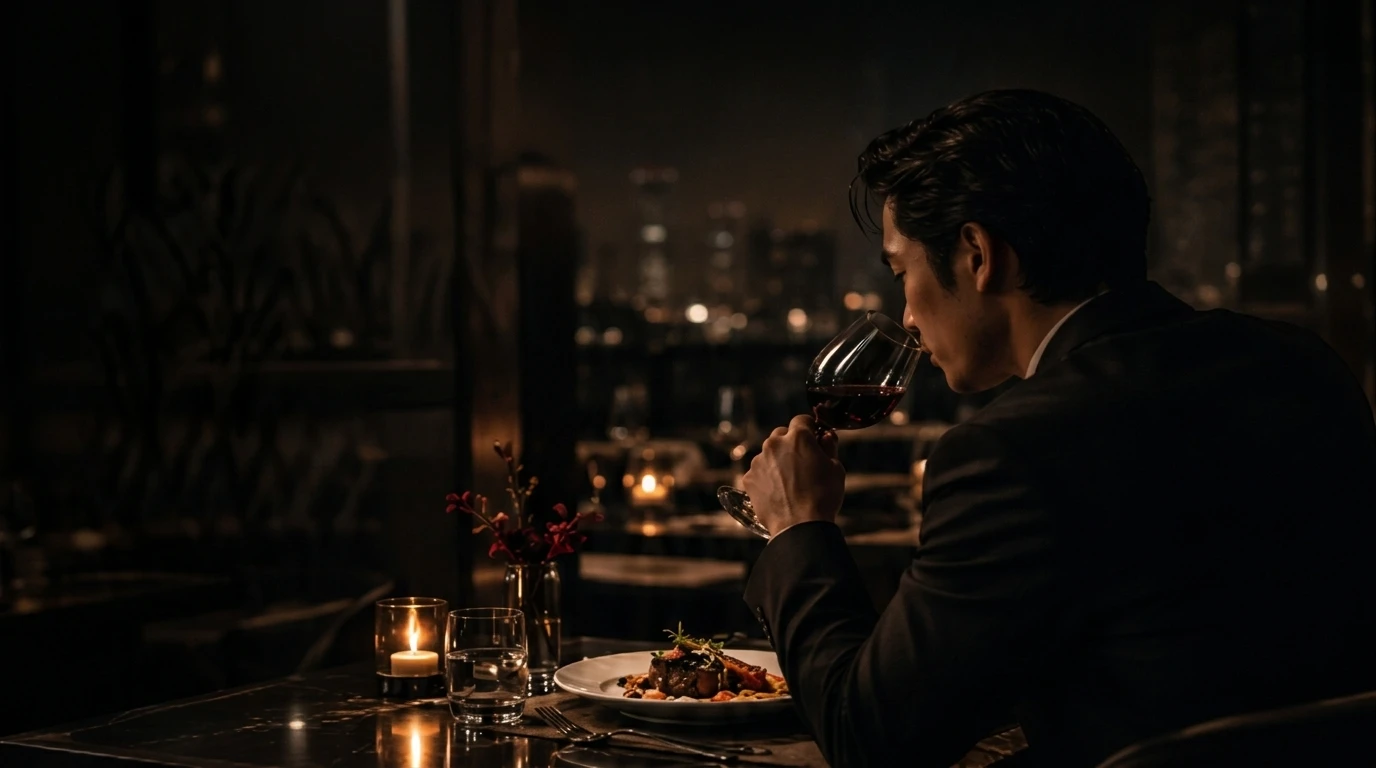
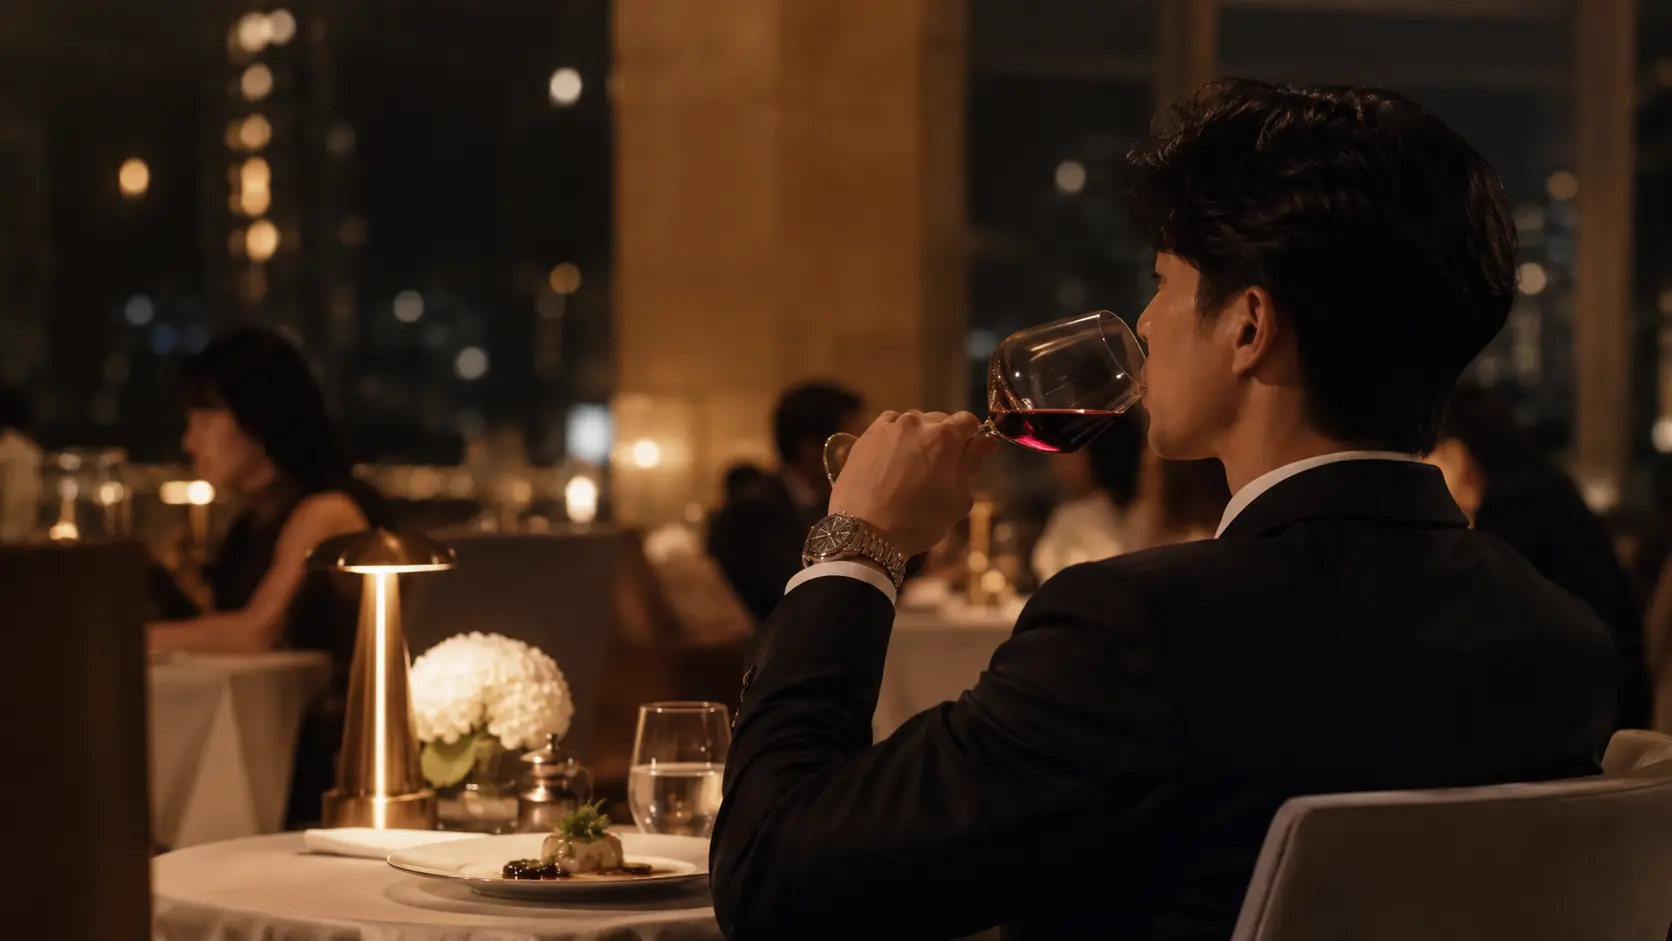
style: fix style la table

diff --git a/src/features/template/la-table-eternelle/LaTableEternelleLanding.tsx b/src/features/template/la-table-eternelle/LaTableEternelleLanding.tsx
@@ -160,7 +160,7 @@ export default function LaTableEternelleLanding({ lang = 'id' }: LaTableEternell
             className="w-full h-full object-cover object-[72%_center] md:object-center"
           />
           {/* Refined gradient: dark left vignette for text legibility, while letting the warm center dining table and ambient light emerge */}
-          <div className="absolute inset-0 bg-gradient-to-r from-[#080808]/92 via-[#080808]/45 to-transparent sm:via-[#080808]/30 max-w-5xl" />
+          <div className="absolute inset-0 bg-gradient-to-r from-black to-transparent sm:via-[#080808]/30 " />
           <div className="absolute inset-0 bg-gradient-to-t from-[#080808] via-transparent to-black/25" />
         </div>
 
@@ -173,14 +173,13 @@ export default function LaTableEternelleLanding({ lang = 'id' }: LaTableEternell
             </p>
 
             <h1 className="text-4xl sm:text-5xl md:text-6xl lg:text-[70px] font-medium text-white tracking-tight leading-[1.08] mb-5">
-              Rasa yang<br />
+              Rasa Yang<br />
               <span
                 style={goldGradientStyle}
                 className="text-5xl sm:text-6xl md:text-7xl lg:text-[86px] font-normal leading-[1.02] pr-4 drop-shadow-[0_2px_12px_rgba(212,175,55,0.25)]"
               >
-                Menyatukan
-              </span><br />
-              Cerita
+                Menyatukan Cerita
+              </span>
             </h1>
 
             <p className="text-neutral-300 text-sm md:text-[15px] leading-relaxed max-w-md mb-8">
